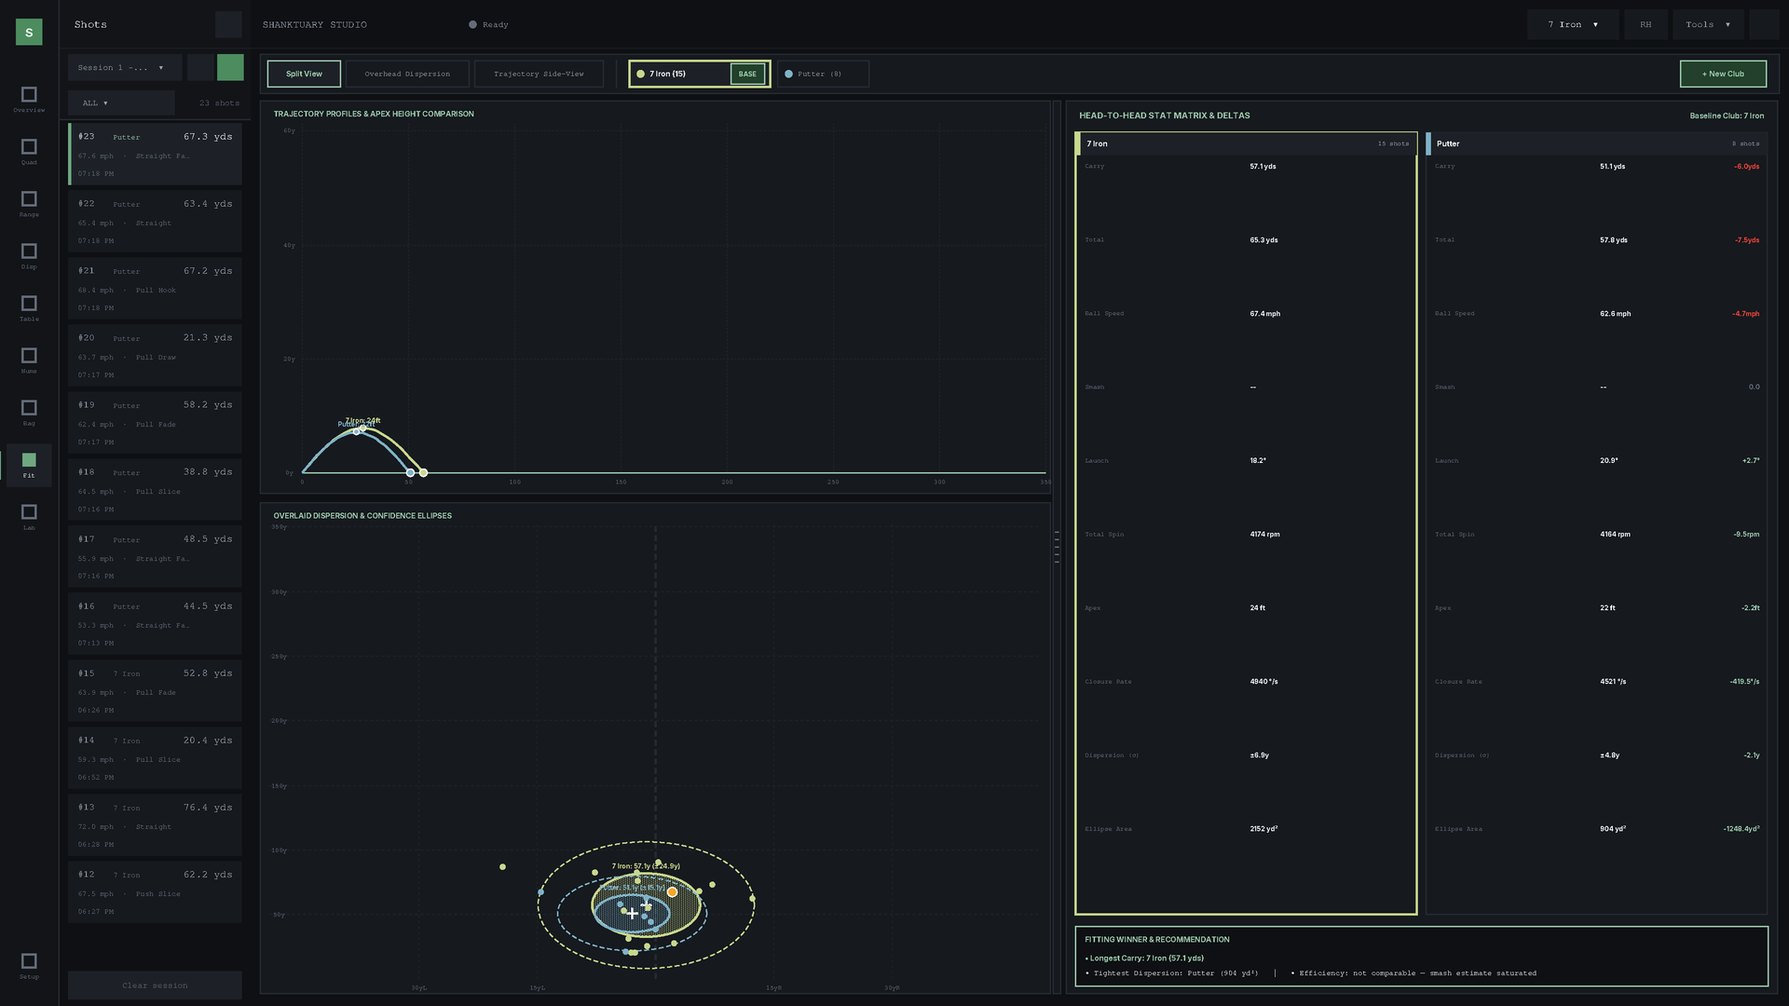
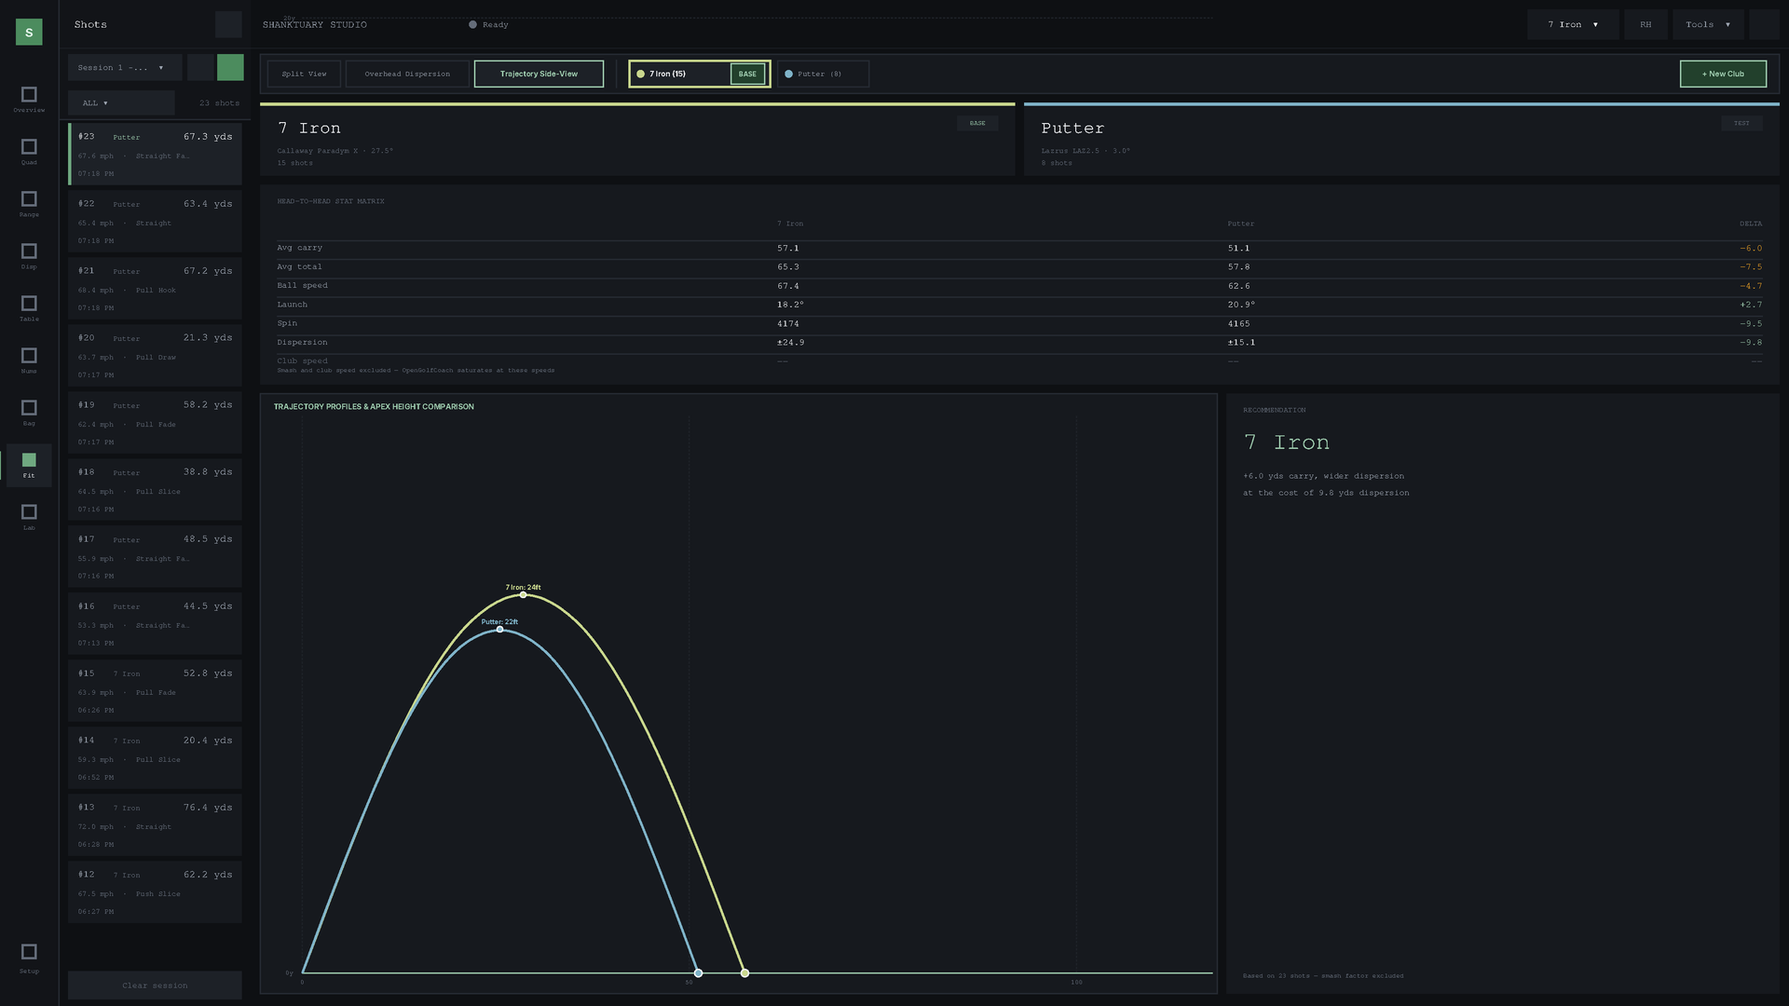
feat(fitting): rebuild to the mockup, keep the chart toggle
Fitting kept the pre-redesign dual-pane layout: a draggable splitter with
overlaid charts on the left and a stacked per-club block on the right. It
now follows docs/ui/view_fit.png as a stacked layout -- club header cards,
head-to-head matrix, then chart and recommendation on one row.

The matrix is a row-per-stat table with a column per club and a delta
column, instead of a block per club. Comparing the same metric across clubs
is the whole point of a fitting view, and that reads across a row. Deltas
are coloured by whether they are an improvement, which is direction-aware:
for spin and dispersion, lower is better.

The Split / Overhead Dispersion / Trajectory Side-View toggle is preserved
and drives the chart panel, so switching between trajectory and dispersion
works as before -- it just moved into the new layout.

Two hardcoded axes fixed, the same class of bug as the bag gapping ladder.
The trajectory chart assumed 350 yds of range and 60 yds of height, so a
57-yard session with a 24 ft apex drew both arcs flattened into the bottom
-left corner. Both axes now fit the data.

Club speed and smash stay excluded from the comparison with the reason
stated inline: OpenGolfCoach saturates at these speeds, so ranking clubs by
a constant would be meaningless.

diff --git a/shanktuary_performance_studio.py b/shanktuary_performance_studio.py
@@ -5954,20 +5954,7 @@ class ShanktuaryApp:
         self.canvas.create_rectangle(add_x1, bar_y1 + 7, add_x2, bar_y2 - 7, fill=theme.ACCENT_DEEP, outline=theme.ACCENT_TEXT, width=1)
         self.canvas.create_text((add_x1 + add_x2) // 2, (bar_y1 + bar_y2) // 2, text="+ New Club", fill=theme.ACCENT_TEXT, font=(theme.ui_font(), 8, "bold"), anchor="center")
 
-        # 3. Dual-Pane Dimensions & Splitter
-        content_top = bar_y2 + 8
-        content_h = bot_y - content_top
-        plot_w = int(avail_w * self.fitting_splitter_ratio)
-        plot_w = max(260, min(avail_w - 240, plot_w))
-
-        split_x1 = offset_x + plot_w + 3
-        split_x2 = split_x1 + 8
-        self.fitting_splitter_rect = (split_x1 - 4, content_top, split_x2 + 4, bot_y)
-
-        gap_x1 = split_x2 + 6
-        gap_w = (offset_x + avail_w) - gap_x1 - 12
-
-        # Calculate fitting stats for all competitor clubs
+        # 3. Stats for every competitor club
         stats_by_club = {}
         grouped_shots = {}
         for c_name in session_clubs:
@@ -5978,25 +5965,81 @@ class ShanktuaryApp:
             if c_items:
                 grouped_shots[c_name] = c_items
 
-        chart_top = content_top
-        chart_h = bot_y - chart_top
-        plot_x1 = offset_x + 10
-        plot_x2 = offset_x + plot_w
-        max_x_yds = 350.0
-        max_h_yds = 60.0
+        # --- Stacked layout, per docs/ui/view_fit.png: club header cards,
+        # --- then the stat matrix, then chart + recommendation on one row.
+        cx0 = offset_x + 10
+        cx1 = offset_x + avail_w - 10
+        y = bar_y2 + 10
 
-        # Draw Left Pane Overlaid Charts
-        self._draw_fitting_overlaid_charts(plot_x1, chart_top, plot_x2, bot_y, max_x_yds, max_h_yds, stats_by_club, grouped_shots)
+        # A. Club header cards -- baseline first, then the comparison clubs
+        cmp_clubs = [c for c in session_clubs if c in stats_by_club][:3]
+        if self.fitting_baseline_club in cmp_clubs:
+            cmp_clubs.remove(self.fitting_baseline_club)
+            cmp_clubs.insert(0, self.fitting_baseline_club)
+        hdr_h = 78
+        if cmp_clubs:
+            hw_ = (cx1 - cx0 - 10 * (len(cmp_clubs) - 1)) / len(cmp_clubs)
+            for i, c_name in enumerate(cmp_clubs):
+                hx0 = cx0 + i * (hw_ + 10)
+                hx1 = hx0 + hw_
+                st = stats_by_club[c_name]
+                is_base = (c_name == self.fitting_baseline_club)
+                self.canvas.create_rectangle(hx0, y, hx1, y + hdr_h,
+                                             fill=theme.SURFACE, outline="")
+                # Accent rule on top, in the club's series colour.
+                self.canvas.create_rectangle(hx0, y, hx1, y + 3,
+                                             fill=self.get_club_color(c_name),
+                                             outline="")
+                self.canvas.create_text(hx0 + 18, y + 18, text=c_name,
+                                        fill=theme.TEXT,
+                                        font=(theme.ui_font(), 19), anchor="nw")
+                spec = self.get_bag_club(c_name) or {}
+                bits = [b for b in (spec.get("brand"), spec.get("model")) if b]
+                loft = spec.get("loft_deg")
+                sub = " ".join(bits) if bits else "—"
+                if loft:
+                    sub += f" · {float(loft):.1f}°"
+                self.canvas.create_text(hx0 + 18, y + 48, text=sub,
+                                        fill=theme.TEXT_3,
+                                        font=(theme.ui_font(), 8), anchor="nw")
+                self.canvas.create_text(hx0 + 18, y + 61,
+                                        text=f"{st['count']} shots",
+                                        fill=theme.TEXT_3,
+                                        font=(theme.ui_font(), 8), anchor="nw")
+                tag = "BASE" if is_base else "TEST"
+                self.canvas.create_rectangle(hx1 - 62, y + 14, hx1 - 18, y + 30,
+                                             fill=theme.SURFACE_2, outline="")
+                self.canvas.create_text(hx1 - 40, y + 22, text=tag,
+                                        fill=theme.ACCENT_TEXT if is_base else theme.TEXT_3,
+                                        font=(theme.ui_font(), 7), anchor="center")
+        y += hdr_h + 10
 
-        # Draw Splitter Handle
-        is_dragging = self.fitting_splitter_dragging
-        self.canvas.create_rectangle(split_x1, content_top, split_x2, bot_y, fill=theme.ACCENT_TEXT if is_dragging else theme.SURFACE, outline=theme.ACCENT_TEXT if is_dragging else theme.HAIRLINE)
-        mid_y = (content_top + bot_y) // 2
-        for dy in [-16, -8, 0, 8, 16]:
-            self.canvas.create_line(split_x1 + 2, mid_y + dy, split_x2 - 2, mid_y + dy, fill=theme.TEXT if is_dragging else theme.TEXT_3, width=1)
+        # B. Head-to-head matrix
+        matrix_h = 214
+        self._draw_fitting_h2h_matrix(cx0, y, cx1 - cx0, y + matrix_h,
+                                      stats_by_club, session_clubs)
+        y += matrix_h + 10
 
-        # Draw Right Pane Head-to-Head Delta Matrix & Best Fit Summary
-        self._draw_fitting_h2h_matrix(gap_x1, content_top, gap_w, bot_y, stats_by_club, session_clubs)
+        # C. Chart + recommendation
+        chart_x1 = cx0
+        chart_x2 = cx0 + (cx1 - cx0) * 0.63
+        rec_x1 = chart_x2 + 10
+        self.fitting_splitter_rect = None
+        # Scale the range axis to the data. A fixed 350 yds squashes a
+        # wedge session into the left corner of the plot.
+        _max_carry = max((st.get("max_carry", 0.0)
+                          for st in stats_by_club.values()), default=0.0)
+        _axis = 350.0 if _max_carry > 280 else max(60.0, _max_carry * 1.30)
+        # Height axis too: apex is reported in feet, so a 60 yd ceiling
+        # leaves a 24 ft flight hugging the baseline.
+        _max_apex_ft = max((st.get("avg_apex_ft", 0.0)
+                            for st in stats_by_club.values()), default=0.0)
+        _h_axis = max(10.0, (_max_apex_ft / 3.0) * 1.45)
+        self._draw_fitting_overlaid_charts(chart_x1, y, chart_x2, bot_y,
+                                           _axis, _h_axis, stats_by_club,
+                                           grouped_shots)
+        self._draw_fitting_recommendation(rec_x1, y, cx1, bot_y,
+                                          stats_by_club, session_clubs)
 
     def _draw_fitting_overlaid_charts(self, plot_x1, plot_y1, plot_x2, plot_y2, max_x_yds, max_h_yds, stats_by_club, grouped_shots):
         content_h = plot_y2 - plot_y1
@@ -6144,116 +6187,153 @@ class ShanktuaryApp:
             land_x = margin_x + int((avg_c / max_x_yds) * chart_w)
             self.canvas.create_oval(land_x - 4, base_y - 4, land_x + 4, base_y + 4, fill=c_color, outline=theme.TEXT)
 
-    def _draw_fitting_h2h_matrix(self, gap_x1, top_y, gap_w, bot_y, stats_by_club, session_clubs):
-        self.canvas.create_rectangle(gap_x1, top_y, gap_x1 + gap_w, bot_y, fill=theme.SURFACE, outline=theme.HAIRLINE)
-        self.canvas.create_text(gap_x1 + 14, top_y + 16, text="HEAD-TO-HEAD STAT MATRIX & DELTAS", fill=theme.ACCENT_TEXT, font=(theme.ui_font(), 9, "bold"), anchor="w")
+    def _draw_fitting_h2h_matrix(self, x0, y0, w, y1, stats_by_club, session_clubs):
+        """Row-per-stat comparison table, per docs/ui/view_fit.png.
 
-        baseline_name = self.fitting_baseline_club or (session_clubs[0] if session_clubs else None)
-        base_st = stats_by_club.get(baseline_name)
+        One row per metric with a column per club and a delta column, rather
+        than a stacked block per club -- the point of a fitting view is
+        comparing the same metric across clubs, which reads across a row.
+        """
+        x1 = x0 + w
+        self.canvas.create_rectangle(x0, y0, x1, y1, fill=theme.SURFACE,
+                                     outline="")
+        self.canvas.create_text(x0 + 18, y0 + 14, text="HEAD-TO-HEAD STAT MATRIX",
+                                fill=theme.TEXT_3, font=(theme.ui_font(), 8),
+                                anchor="nw")
 
-        if not stats_by_club or len(stats_by_club) == 0:
-            self.canvas.create_text(gap_x1 + gap_w // 2, top_y + 160, text="No competitor clubs recorded.\nHit shots or select clubs from the top bar to compare.", fill=theme.TEXT_3, font=(theme.ui_font(), 10), justify="center")
+        baseline = self.fitting_baseline_club or (session_clubs[0] if session_clubs else None)
+        base_st = stats_by_club.get(baseline)
+
+        if not stats_by_club:
+            self.canvas.create_text((x0 + x1) / 2, (y0 + y1) / 2,
+                                    text="No clubs with shots in this session",
+                                    fill=theme.TEXT_3,
+                                    font=(theme.ui_font(), 10), anchor="center")
             return
 
-        # Baseline indicator strip
-        base_text = f"Baseline Club: {baseline_name}" if baseline_name else "Baseline"
-        self.canvas.create_text(gap_x1 + gap_w - 14, top_y + 16, text=base_text, fill=theme.ACCENT_TEXT, font=(theme.ui_font(), 8, "bold"), anchor="e")
+        cols = [c for c in session_clubs if c in stats_by_club][:3]
+        if baseline in cols:
+            cols.remove(baseline)
+            cols.insert(0, baseline)
 
-        clubs_to_render = [c for c in session_clubs if c in stats_by_club]
-        if not clubs_to_render:
+        # Column geometry: label gutter, one column per club, delta on the right.
+        lab_x = x0 + 18
+        delta_x = x1 - 18
+        first_col = x0 + w * 0.34
+        col_span = (delta_x - 90 - first_col) / max(1, len(cols))
+
+        hdr_y = y0 + 38
+        for i, c in enumerate(cols):
+            self.canvas.create_text(first_col + i * col_span, hdr_y, text=c,
+                                    fill=theme.TEXT_3,
+                                    font=(theme.ui_font(), 8), anchor="nw")
+        if len(cols) >= 2:
+            self.canvas.create_text(delta_x, hdr_y, text="DELTA",
+                                    fill=theme.TEXT_3,
+                                    font=(theme.ui_font(), 8), anchor="ne")
+
+        rows = [
+            ("Avg carry",  "avg_carry",  "{:.1f}",  1),
+            ("Avg total",  "avg_total",  "{:.1f}",  1),
+            ("Ball speed", "avg_ball_speed", "{:.1f}", 1),
+            ("Launch",     "avg_launch", "{:.1f}°", 1),
+            ("Spin",       "avg_spin",   "{:.0f}",  -1),
+            ("Dispersion", "std_carry",  "±{:.1f}", -1),
+            ("Club speed", None,         "--",       0),
+        ]
+
+        ry = hdr_y + 22
+        row_h = (y1 - 12 - ry) / len(rows)
+        for label, key, fmt, better in rows:
+            self.canvas.create_line(x0 + 18, ry, x1 - 18, ry,
+                                    fill=theme.HAIRLINE)
+            ty = ry + row_h * 0.5 - 7
+            muted = key is None
+            self.canvas.create_text(lab_x, ty, text=label,
+                                    fill=theme.TEXT_3 if muted else theme.TEXT_2,
+                                    font=(theme.ui_font(), 9), anchor="nw")
+            vals = []
+            for i, c in enumerate(cols):
+                st = stats_by_club[c]
+                if muted:
+                    txt = "--"
+                else:
+                    v = float(st.get(key, 0.0) or 0.0)
+                    vals.append(v)
+                    txt = fmt.format(v)
+                self.canvas.create_text(first_col + i * col_span, ty, text=txt,
+                                        fill=theme.TEXT_3 if muted else theme.TEXT,
+                                        font=(theme.ui_font(), 10), anchor="nw")
+            # Delta against the baseline, coloured by whether it is an
+            # improvement -- for spin and dispersion, lower is better.
+            if muted or len(vals) < 2:
+                self.canvas.create_text(delta_x, ty, text="--",
+                                        fill=theme.TEXT_3,
+                                        font=(theme.ui_font(), 10), anchor="ne")
+            else:
+                d = vals[1] - vals[0]
+                good = (d * better) > 0
+                self.canvas.create_text(
+                    delta_x, ty, text=f"{d:+.1f}" if abs(d) < 1000 else f"{d:+.0f}",
+                    fill=theme.ACCENT_TEXT if good else theme.WARN,
+                    font=(theme.ui_font(), 10), anchor="ne")
+            ry += row_h
+
+        self.canvas.create_text(lab_x, y1 - 12,
+                                text="Smash and club speed excluded — "
+                                     "OpenGolfCoach saturates at these speeds",
+                                fill=theme.TEXT_3, font=(theme.ui_font(), 7),
+                                anchor="sw")
+
+    def _draw_fitting_recommendation(self, x0, y0, x1, y1, stats_by_club,
+                                     session_clubs):
+        """Which club won, and on what evidence."""
+        self.canvas.create_rectangle(x0, y0, x1, y1, fill=theme.SURFACE,
+                                     outline="")
+        self.canvas.create_text(x0 + 18, y0 + 14, text="RECOMMENDATION",
+                                fill=theme.TEXT_3, font=(theme.ui_font(), 8),
+                                anchor="nw")
+
+        ranked = sorted(stats_by_club.items(),
+                        key=lambda kv: kv[1].get("avg_carry", 0.0),
+                        reverse=True)
+        if not ranked:
+            self.canvas.create_text((x0 + x1) / 2, (y0 + y1) / 2,
+                                    text="Hit shots with two clubs to compare",
+                                    fill=theme.TEXT_3,
+                                    font=(theme.ui_font(), 9), anchor="center")
             return
 
-        # Side-by-side club columns
-        num_clubs = min(3, len(clubs_to_render))
-        card_w = (gap_w - 20 - (num_clubs - 1) * 10) // num_clubs
-        card_start_y = top_y + 34
-        card_h = max(240, bot_y - card_start_y - 85)
+        win_name, win_st = ranked[0]
+        self.canvas.create_text(x0 + 18, y0 + 40, text=win_name,
+                                fill=theme.ACCENT_TEXT,
+                                font=(theme.ui_font(), 26), anchor="nw")
 
-        for col_i, c_name in enumerate(clubs_to_render[:num_clubs]):
-            st = stats_by_club[c_name]
-            cx1 = gap_x1 + 10 + col_i * (card_w + 10)
-            cx2 = cx1 + card_w
-            cy1 = card_start_y
-            cy2 = cy1 + card_h
-            c_color = st["color"]
-            is_base = (c_name == baseline_name)
+        ly = y0 + 84
+        if len(ranked) >= 2:
+            _, other = ranked[1]
+            d_carry = win_st.get("avg_carry", 0.0) - other.get("avg_carry", 0.0)
+            d_disp = win_st.get("std_carry", 0.0) - other.get("std_carry", 0.0)
+            tighter = "tighter to target" if d_disp <= 0 else "wider dispersion"
+            for line in (f"+{d_carry:.1f} yds carry, {tighter}",
+                         f"{'at the cost of' if d_disp > 0 else 'and'} "
+                         f"{abs(d_disp):.1f} yds dispersion"):
+                self.canvas.create_text(x0 + 18, ly, text=line,
+                                        fill=theme.TEXT_2,
+                                        font=(theme.ui_font(), 9), anchor="nw")
+                ly += 18
+        else:
+            self.canvas.create_text(x0 + 18, ly,
+                                    text="Only one club has shots this session",
+                                    fill=theme.TEXT_2,
+                                    font=(theme.ui_font(), 9), anchor="nw")
+            ly += 18
 
-            # Club Card Container
-            self.canvas.create_rectangle(cx1, cy1, cx2, cy2, fill=theme.SURFACE, outline=c_color if is_base else theme.HAIRLINE, width=2 if is_base else 1)
-            # Top Club Name Banner
-            self.canvas.create_rectangle(cx1, cy1, cx2, cy1 + 24, fill=theme.SURFACE_2, outline="")
-            self.canvas.create_rectangle(cx1, cy1, cx1 + 5, cy1 + 24, fill=c_color, outline="")
-            self.canvas.create_text(cx1 + 12, cy1 + 12, text=c_name, fill=theme.TEXT, font=(theme.ui_font(), 8, "bold"), anchor="w")
-            self.canvas.create_text(cx2 - 8, cy1 + 12, text=f"{st['count']} shots", fill=theme.TEXT_2, font=(theme.ui_font(), 7), anchor="e")
-
-            # Metrics with Deltas vs Baseline
-            metrics = [
-                ("Carry", f"{st['avg_carry']:.1f} yds", st['avg_carry'] - (base_st['avg_carry'] if base_st else st['avg_carry']), "yds", True),
-                ("Total", f"{st['avg_total']:.1f} yds", st['avg_total'] - (base_st['avg_total'] if base_st else st['avg_total']), "yds", True),
-                ("Ball Speed", f"{st['avg_ball_speed']:.1f} mph", st['avg_ball_speed'] - (base_st['avg_ball_speed'] if base_st else st['avg_ball_speed']), "mph", True),
-                # Smash is an OpenGolfCoach derivation of ball speed and is a
-                # constant whenever its model saturates, so a smash "delta"
-                # between two clubs would be pure noise dressed as a finding.
-                ("Smash", "--" if st.get('smash_clamped') else f"{st['avg_smash']:.2f}",
-                 0.0 if st.get('smash_clamped') else st['avg_smash'] - (base_st['avg_smash'] if base_st else st['avg_smash']), "", True),
-                ("Launch", f"{st['avg_launch']:.1f}°", st['avg_launch'] - (base_st['avg_launch'] if base_st else st['avg_launch']), "°", None),
-                ("Total Spin", f"{int(st['avg_spin'])} rpm", st['avg_spin'] - (base_st['avg_spin'] if base_st else st['avg_spin']), "rpm", None),
-                ("Apex", f"{st['avg_apex_ft']:.0f} ft", st['avg_apex_ft'] - (base_st['avg_apex_ft'] if base_st else st['avg_apex_ft']), "ft", None),
-                ("Closure Rate", f"{int(st['avg_closure_rate'])} °/s", st['avg_closure_rate'] - (base_st['avg_closure_rate'] if base_st else st['avg_closure_rate']), "°/s", None),
-                ("Dispersion (σ)", f"±{st['std_offline']:.1f}y", st['std_offline'] - (base_st['std_offline'] if base_st else st['std_offline']), "y", False),
-                ("Ellipse Area", f"{int(st['ellipse_area'])} yd²", st['ellipse_area'] - (base_st['ellipse_area'] if base_st else st['ellipse_area']), "yd²", False),
-            ]
-
-            row_y = cy1 + 32
-            row_h = (card_h - 40) // len(metrics)
-            for m_label, m_val, delta, unit, higher_is_better in metrics:
-                self.canvas.create_text(cx1 + 10, row_y + 4, text=m_label, fill=theme.TEXT_3, font=(theme.ui_font(), 7), anchor="w")
-                
-                # Primary Val
-                self.canvas.create_text(cx1 + card_w // 2 + 4, row_y + 4, text=m_val, fill=theme.TEXT, font=(theme.ui_font(), 7, "bold"), anchor="w")
-
-                # Delta vs baseline (if not baseline itself)
-                if not is_base and base_st:
-                    if abs(delta) > 0.05:
-                        if higher_is_better is True:
-                            d_col = theme.ACCENT_TEXT if delta > 0 else theme.DANGER
-                        elif higher_is_better is False:
-                            d_col = theme.ACCENT_TEXT if delta < 0 else theme.DANGER # Lower dispersion is better
-                        else:
-                            d_col = theme.ACCENT_TEXT
-                        d_str = f"{delta:+.1f}{unit}" if isinstance(delta, float) else f"{int(delta):+d}{unit}"
-                    else:
-                        d_col = theme.TEXT_3
-                        d_str = "0.0"
-                    self.canvas.create_text(cx2 - 8, row_y + 4, text=d_str, fill=d_col, font=(theme.ui_font(), 7, "bold"), anchor="e")
-
-                row_y += row_h
-
-        # 5. Best Fit Summary Award Banner (Bottom of right pane)
-        summary_y1 = bot_y - 72
-        summary_y2 = bot_y - 8
-        self.canvas.create_rectangle(gap_x1 + 10, summary_y1, gap_x1 + gap_w - 10, summary_y2, fill=theme.BG, outline=theme.ACCENT_TEXT, width=1)
-        self.canvas.create_text(gap_x1 + 20, summary_y1 + 14, text="FITTING WINNER & RECOMMENDATION", fill=theme.ACCENT_TEXT, font=(theme.ui_font(), 8, "bold"), anchor="w")
-
-        # Calculate winners
-        best_carry_club = max(clubs_to_render, key=lambda c: stats_by_club[c]["avg_carry"])
-        best_tight_club = min(clubs_to_render, key=lambda c: stats_by_club[c]["ellipse_area"])
-        # Only crown an efficiency winner when at least one club has a smash
-        # figure that is not the clamped constant; otherwise it ranks noise.
-        smash_usable = [c for c in clubs_to_render
-                        if not stats_by_club[c].get("smash_clamped")]
-        best_smash_club = (max(smash_usable, key=lambda c: stats_by_club[c]["avg_smash"])
-                           if smash_usable else None)
-
-        w1 = f"Longest Carry: {best_carry_club} ({stats_by_club[best_carry_club]['avg_carry']:.1f} yds)"
-        w2 = f"Tightest Dispersion: {best_tight_club} ({int(stats_by_club[best_tight_club]['ellipse_area'])} yd²)"
-        w3 = (f"Highest Efficiency: {best_smash_club} "
-              f"({stats_by_club[best_smash_club]['avg_smash']:.2f} smash)"
-              if best_smash_club else
-              "Efficiency: not comparable — smash estimate saturated")
-
-        self.canvas.create_text(gap_x1 + 20, summary_y1 + 34, text=f"• {w1}", fill=theme.ACCENT_TEXT, font=(theme.ui_font(), 8, "bold"), anchor="w")
-        self.canvas.create_text(gap_x1 + 20, summary_y1 + 50, text=f"• {w2}   |   • {w3}", fill=theme.TEXT, font=(theme.ui_font(), 8), anchor="w")
+        total = sum(s.get("count", 0) for s in stats_by_club.values())
+        self.canvas.create_text(x0 + 18, y1 - 16,
+                                text=f"Based on {total} shots — smash factor excluded",
+                                fill=theme.TEXT_3, font=(theme.ui_font(), 7),
+                                anchor="sw")
 
 
     def draw_swing_lab_viewport(self, avail_w, h, offset_x=0):
